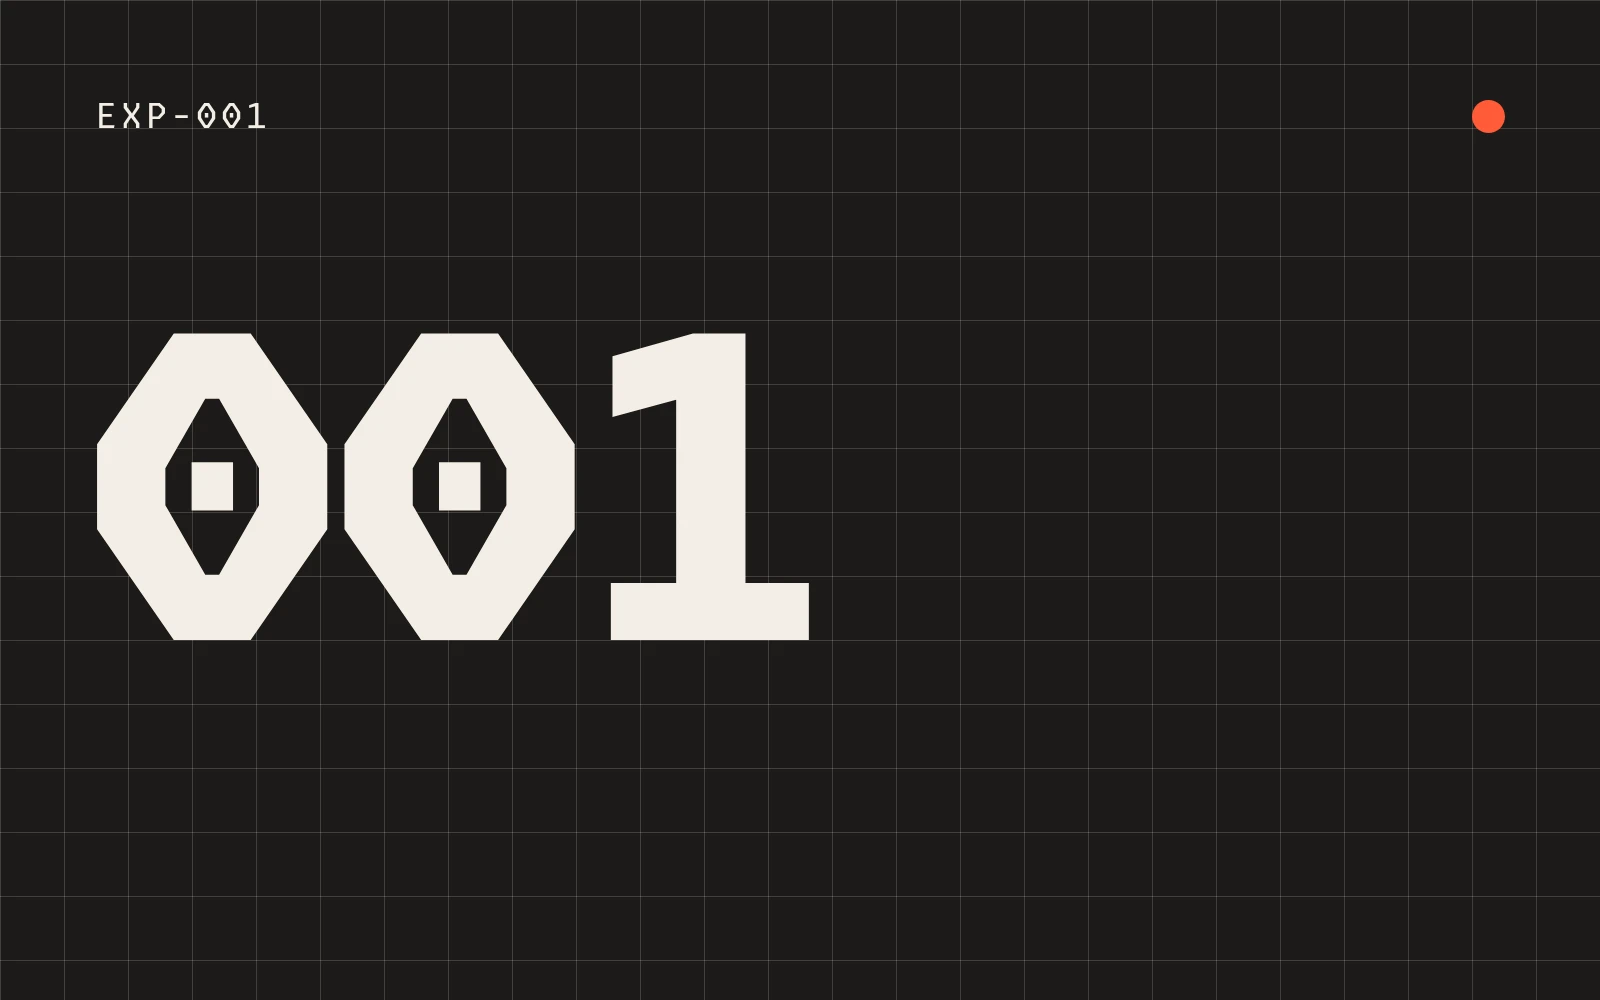
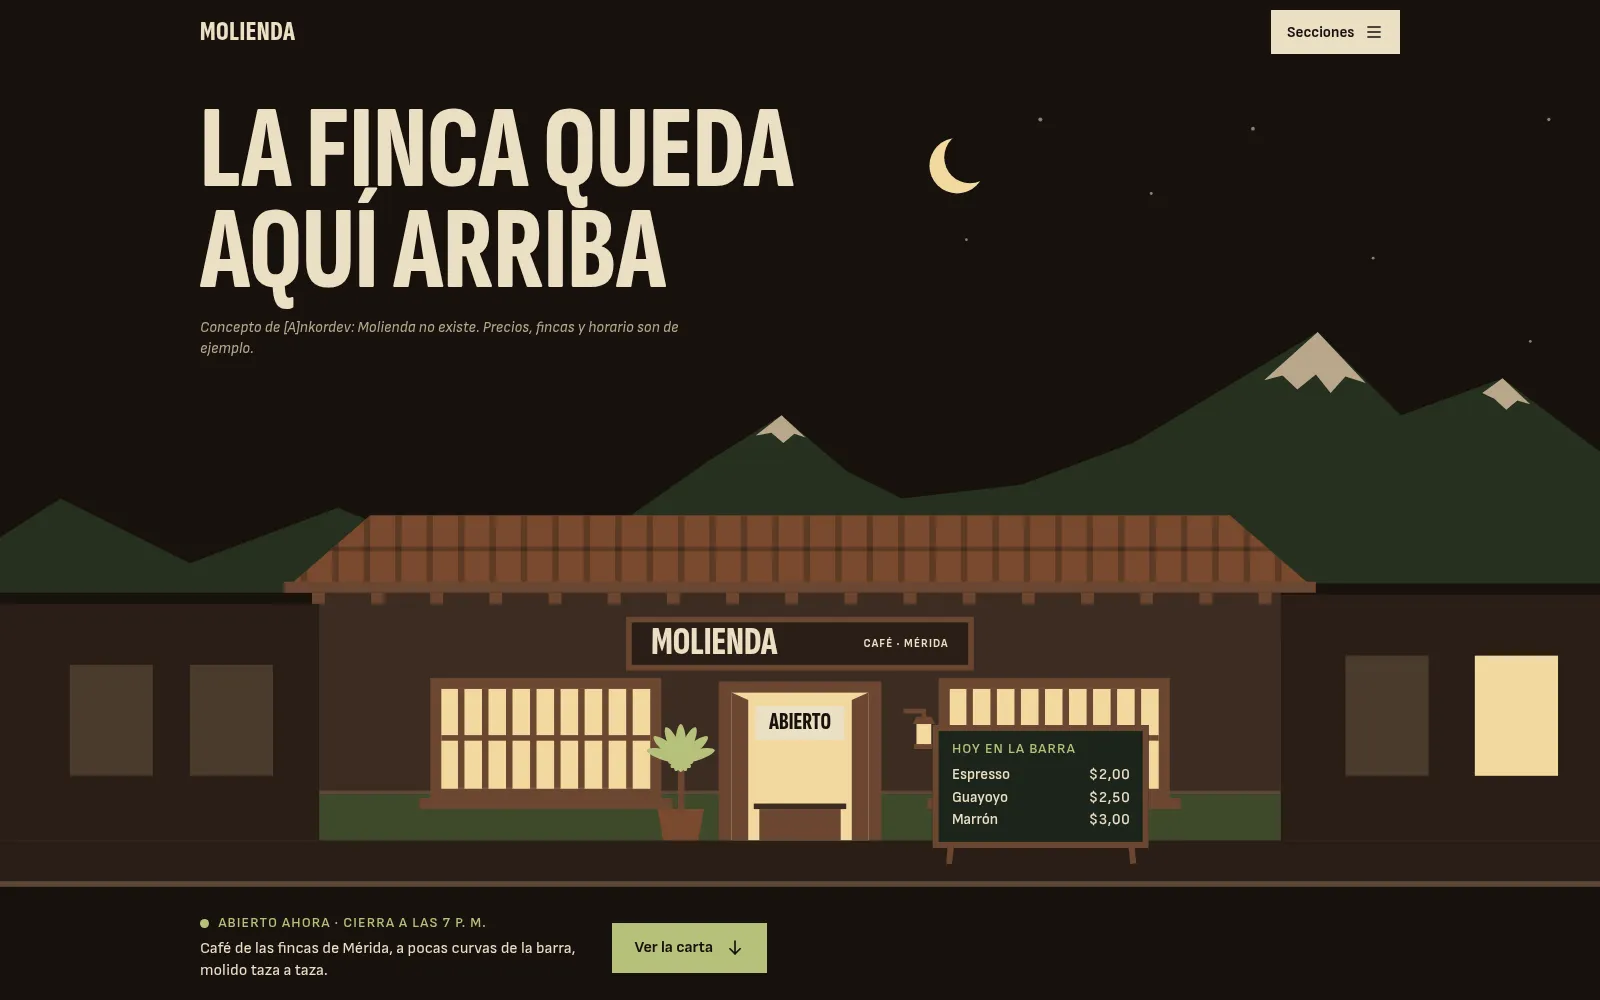
feat: caso de estudio de Molienda publicado (T30, 001)
Capturas reales de https://molienda-cafe.ankordev.workers.dev, enlaces al sitio
y al repositorio, ES y EN.

diff --git a/tests/e2e/projects.spec.ts b/tests/e2e/projects.spec.ts
@@ -3,7 +3,7 @@ import { test, expect } from '@playwright/test';
 test('el inicio lista los proyectos publicables en orden, sin el borrador', async ({ page }) => {
   await page.goto('/');
   const titles = page.locator('#proyectos .project-title');
-  await expect(titles).toHaveText(['Restaurante / café local', 'Don Pascal: tienda online', 'App de reservas para barbería']);
+  await expect(titles).toHaveText(['Molienda: café de especialidad', 'Don Pascal: tienda online', 'App de reservas para barbería']);
   await expect(page.locator('#proyectos')).not.toContainText('iglesia');
 });
 
@@ -31,6 +31,14 @@ test('cada fila abre su caso de estudio y se puede volver', async ({ page }) => 
 
   await page.getByRole('link', { name: 'Volver a proyectos' }).click();
   await expect(page).toHaveURL(/\/#proyectos$/);
+});
+
+test('el caso 001 (Molienda) está publicado con capturas y enlaces reales (T30)', async ({ page }) => {
+  await page.goto('/proyectos/001-restaurante/');
+  await expect(page.locator('h1')).toHaveText('Molienda: café de especialidad');
+  await expect(page.locator('main img').first()).toHaveAttribute('alt', /^Inicio de Molienda/);
+  await expect(page.locator('main a[href="https://molienda-cafe.ankordev.workers.dev"]')).toBeVisible();
+  await expect(page.locator('main a[href="https://github.com/RomPirsZ/molienda-cafe"]')).toBeVisible();
 });
 
 test('el caso de estudio enlaza con su versión en el otro idioma', async ({ page }) => {

diff --git a/tests/e2e/keyboard.spec.ts b/tests/e2e/keyboard.spec.ts
@@ -64,7 +64,7 @@ test('con Enter se abre un caso de estudio, el foco vuelve arriba y se regresa a
   await tabTo(page, '.project-link');
   await page.keyboard.press('Enter');
   await expect(page).toHaveURL(/\/proyectos\/001-restaurante\/$/);
-  await expect(page.locator('h1')).toHaveText('Restaurante / café local');
+  await expect(page.locator('h1')).toHaveText('Molienda: café de especialidad');
 
   // En la página nueva, el primer Tab lleva a «Saltar al contenido», como en una carga normal
   await page.keyboard.press('Tab');

diff --git a/src/content/projects/en/001-restaurante.md b/src/content/projects/en/001-restaurante.md
@@ -1,30 +1,64 @@
 ---
-title: Local restaurant / café
+title: 'Molienda: specialty coffee shop'
 number: '001'
 type: negocio
 year: 2026
-status: por-construir
+status: publicado
 origin: propio
-stack: []
+stack: [Astro, TypeScript, Tailwind CSS, GSAP, Lenis, Cloudflare Workers, Vitest, Playwright]
 cover: ../../../assets/projects/001-restaurante/cover.webp
-coverAlt: Placeholder cover for experiment 001, pending real screenshots
-gallery: []
-summary: Self-initiated project for a local food business. Built and documented in Phase 5.
+coverAlt: Molienda's home page at night, with the headline «La finca queda aquí arriba», the illustrated house with its windows lit, the «Abierto» plaque on the door and a chalkboard with three coffees and their prices
+gallery:
+  - src: ../../../assets/projects/001-restaurante/cerrado.webp
+    alt: The same façade with the café closed, the windows dark and the door plaque reading «Cerrado, mañana, 7 a. m.»
+  - src: ../../../assets/projects/001-restaurante/panel.webp
+    alt: The sections panel open on the right, with five colour blocks from light to dark, from Carta to Visítanos
+  - src: ../../../assets/projects/001-restaurante/carta.webp
+    alt: The menu in three columns, coffee, bakery and brunch, with a photo, the price in dollars and the farm each coffee comes from
+  - src: ../../../assets/projects/001-restaurante/para-llevar.webp
+    alt: The takeaway section with the product list and its quantity buttons, and the ticket with four products and a 12-dollar total
+liveUrl: https://molienda-cafe.ankordev.workers.dev
+repoUrl: https://github.com/RomPirsZ/molienda-cafe
+summary: The website of a fictional specialty coffee shop in Mérida, Venezuela. The illustrated façade shows live whether it is open, the menu carries prices and origins, and the takeaway order is built on screen. A self-initiated concept.
 lang: en
 ---
 
 ## Problem
 
-Pending: documented once the project is built (T27).
+Many neighbourhood cafés post their menu as a photo on social media. It is hard to read on a phone, it doesn't say whether the place is open, and to find out a price you have to send a message and wait.
+
+I wanted to answer what someone about to go needs: what they serve, what it costs, whether it is open now and where it is. And I wanted those answers to take seconds on a phone, on a limited data plan.
 
 ## Solution
 
-Pending.
+Molienda is a fictional café in Mérida that works with beans from Andean farms. Prices, farms and opening hours are samples, and the notice says so up front. The page has four pieces:
+
+**The façade tells the truth.** The first screen is the house at night, drawn for this café. Using Mérida's local time, the windows light up or go dark, and the door plaque says «Abierto» or, when closed, when it opens. In front stands a sidewalk chalkboard with three coffees and their prices.
+
+**Sections panel.** A button slides in five colour blocks from the right, light to dark, leading to the menu, the single-origin coffees, the takeaway order, the opening hours and the area.
+
+**The full menu**, with a photo, the price and each coffee's farm, region and altitude.
+
+**Takeaway.** You pick products and build a ticket on screen to show at the counter. It is a demo: nothing is sent and no data is stored.
+
+Without JavaScript everything still reads: the menu, the full opening hours and the footer navigation.
 
 ## Technical decisions
 
-Pending.
+**Static Astro on Cloudflare Workers.** There is no server and there are no secrets. The CSP only allows the site itself, and a test checks the hash of the one inline script.
 
-## Outcome
+**The illustration is code.** It is a hand-built SVG, inlined so it doesn't delay the first paint, coloured with the design system's tokens. The lights change colour with the opening state, and the plaque and the chalkboard are HTML text: they can be read, translated and they scale with the drawing.
 
-Pending.
+**The panel follows your thumb.** It is a `<dialog>` with scroll snapping: the browser handles the gesture and the backdrop darkens with the scroll position. It closes with Esc, with its button or by tapping outside, and focus returns to the button.
+
+**The ticket adds up.** Pure functions with tests written first: sums in cents, a per-product limit, and a total announced to screen readers. On phones, a sticky bar shows the total while you choose.
+
+**Motion that doesn't block.** The windows light up on load and the menu and photos come in as you scroll. Each animation is set up in its own task so loading isn't held back. With reduced motion, nothing moves.
+
+## Result
+
+Live on Cloudflare Workers, deployed on every change, with CI running tests, Lighthouse and a dependency audit.
+
+Mobile Lighthouse, median of 5 runs: 98 for performance and 100 for accessibility, best practices and SEO.
+
+92 unit tests and 80 end-to-end tests on mobile and desktop, with axe.

diff --git a/src/content/projects/es/001-restaurante.md b/src/content/projects/es/001-restaurante.md
@@ -1,30 +1,64 @@
 ---
-title: Restaurante / café local
+title: 'Molienda: café de especialidad'
 number: '001'
 type: negocio
 year: 2026
-status: por-construir
+status: publicado
 origin: propio
-stack: []
+stack: [Astro, TypeScript, Tailwind CSS, GSAP, Lenis, Cloudflare Workers, Vitest, Playwright]
 cover: ../../../assets/projects/001-restaurante/cover.webp
-coverAlt: Portada provisional del experimento 001, pendiente de capturas reales
-gallery: []
-summary: Proyecto propio para un negocio local de comida. Se construye y documenta en la Fase 5.
+coverAlt: Inicio de Molienda de noche, con el titular «La finca queda aquí arriba», la casona ilustrada con las ventanas encendidas, la placa «Abierto» en el portón y una pizarra con tres cafés y su precio
+gallery:
+  - src: ../../../assets/projects/001-restaurante/cerrado.webp
+    alt: La misma fachada con el café cerrado, las ventanas apagadas y la placa del portón que dice «Cerrado, mañana, 7 a. m.»
+  - src: ../../../assets/projects/001-restaurante/panel.webp
+    alt: Panel de secciones abierto a la derecha, con cinco bloques de color de claro a oscuro, de Carta a Visítanos
+  - src: ../../../assets/projects/001-restaurante/carta.webp
+    alt: Carta en tres columnas, café, panadería y brunch, con foto, precio en dólares y la finca de origen de cada café
+  - src: ../../../assets/projects/001-restaurante/para-llevar.webp
+    alt: Sección Para llevar con la lista de productos y sus botones de cantidad, y el ticket con cuatro productos y un total de 12 dólares
+liveUrl: https://molienda-cafe.ankordev.workers.dev
+repoUrl: https://github.com/RomPirsZ/molienda-cafe
+summary: La web de un café de especialidad ficticio en Mérida. La fachada ilustrada dice en vivo si está abierto, la carta lleva precios y procedencia, y el pedido para llevar se arma en pantalla. Concepto propio.
 lang: es
 ---
 
 ## Problema
 
-Pendiente: se documenta al construir el proyecto (T27).
+Muchos cafés de barrio publican la carta como una foto en redes. En el móvil no se lee bien, no dice si el local está abierto y para saber un precio hay que escribir y esperar.
+
+Quería resolver lo que busca quien va a ir: qué sirven, cuánto cuesta, si está abierto ahora y dónde queda. Y quería que se resolviera en segundos desde el teléfono, con datos móviles limitados.
 
 ## Solución
 
-Pendiente.
+Molienda es un café ficticio de Mérida que trabaja con grano de fincas andinas. Los precios, las fincas y el horario son de ejemplo, y el aviso está a la vista. La página tiene cuatro piezas:
+
+**La fachada dice la verdad.** El primer viewport es la casona de noche, dibujada para este café. Con la hora de Mérida, las ventanas se encienden o se apagan, y la placa del portón dice «Abierto» o, si está cerrado, cuándo abre. Delante, una pizarra de acera con tres cafés y su precio.
+
+**Panel de secciones.** Un botón despliega desde la derecha cinco bloques de color, de claro a oscuro, que llevan a la carta, los cafés de origen, el pedido para llevar, el horario y la zona.
+
+**Carta completa**, con foto, precio y la finca, región y altitud de cada café.
+
+**Para llevar.** Se eligen productos y se arma un ticket en pantalla para enseñarlo en la barra. Es una demostración: no se envía nada ni se guardan datos.
+
+Sin JavaScript se lee todo: la carta, el horario completo y la navegación del pie.
 
 ## Decisiones técnicas
 
-Pendiente.
+**Astro estático en Cloudflare Workers.** No hay servidor ni secretos. La CSP solo admite el propio sitio, y un test comprueba el hash del único script en línea.
+
+**La ilustración es código.** Es un SVG propio, en línea para no retrasar la primera pintura, pintado con los colores del sistema. Las luces cambian de color según el estado de apertura, y la placa y la pizarra son texto HTML: se leen, se traducen y escalan con el dibujo.
+
+**El panel se arrastra con el dedo.** Es un `<dialog>` con scroll-snap: el gesto lo resuelve el navegador y el fondo se oscurece ligado al desplazamiento. Se cierra con Esc, con el botón o tocando fuera, y el foco vuelve al botón.
+
+**El ticket no se equivoca.** Funciones puras con tests escritos antes: suma en céntimos, tope por producto, y un total que se anuncia a los lectores de pantalla. En el móvil, una barra fija muestra el total mientras se elige.
+
+**Movimiento que no bloquea.** Las ventanas se encienden al cargar y la carta y las fotos entran al bajar. Cada animación se prepara en su propia tarea para no frenar la carga. Con movimiento reducido no se mueve nada.
 
 ## Resultado
 
-Pendiente.
+En línea en Cloudflare Workers, con un despliegue en cada cambio y la CI con tests, Lighthouse y auditoría de dependencias.
+
+Lighthouse móvil, mediana de 5 pasadas: 98 de rendimiento y 100 en accesibilidad, buenas prácticas y SEO.
+
+92 tests unitarios y 80 de extremo a extremo en móvil y escritorio, con axe.

diff --git a/docs/specs/001-portafolio/tasks.md b/docs/specs/001-portafolio/tasks.md
@@ -78,10 +78,10 @@ Auditoría `quick` de solo código fuente sobre el diff de T26b–T26f (`02603a4
 
 ## Fase 5 — Proyectos (objetivo: 14–18 nov)
 
-- [x] T27 Proyecto 001 restaurante — *repo propio en `../restaurante/` (café ficticio «Molienda», Mérida), con su spec, plan y tareas en `docs/specs/001-sitio/`; M00–M10 hechas (revisión final de impeccable aprobada, `DESIGN.md`, Lighthouse móvil 99–100/100/100/100); sin despliegue hasta nuevo aviso; el caso de estudio va en T30*
+- [x] T27 Proyecto 001 restaurante — *repo propio en `../restaurante/` (café ficticio «Molienda», Mérida), con su spec, plan y tareas en `docs/specs/001-sitio/`; M00–M10 hechas (revisión final de impeccable aprobada, `DESIGN.md`, Lighthouse móvil 99–100/100/100/100). 2026-11-17: rediseño oscuro y despliegue (M11–M17, spec §10 del restaurante); el caso de estudio va en T30*
 - [x] T28 Proyecto 002 tienda — *repo propio en `../tienda/` (marca ficticia «Don Pascal», Guanare, decidido 2026-11-14), con su spec, plan y tareas en `docs/specs/001-tienda/`: catálogo, carrito con pedido por WhatsApp y asistente con IA (Claude Opus 5.5) que solo responde con datos de la base de datos. Hecha 2026-11-15: en línea en https://don-pascal.ankordev.workers.dev (repo público RomPirsZ/don-pascal-tienda, Workers Builds), E00–E11 y E14–E17 hechas; Lighthouse móvil 100/96/99 y 100 en lo demás. Abiertas en la tienda: E12 (batería contra la API real, falta crédito; mientras, el chat remite a WhatsApp) y E13 (WhatsApp, aplazada por decisión del usuario). Caso de estudio en el portafolio (ES y EN, `src/content/projects/*/002-tienda.md`): publicado, con portada y 4 capturas reales de producción, stack, enlaces al sitio y al código, y lo pendiente dicho tal cual; sin conversación inventada en la captura del chat. Las listas del texto van como párrafos con entrada en negrita (el estilo del caso no da formato a listas). `projects.spec.ts` actualizado*
 - [ ] T29 Proyecto 003 reservas, versión mínima (`docs/specs/004-reservas/`)
-- [ ] T30 Casos de estudio con capturas y enlaces reales — *el de la tienda (002) ya está hecho con T28 (2026-11-15); faltan 001 y 003*
+- [ ] T30 Casos de estudio con capturas y enlaces reales — *el de la tienda (002) ya está hecho con T28 (2026-11-15); el del restaurante (001), «Molienda», el 2026-11-17 tras su rediseño oscuro, en línea en https://molienda-cafe.ankordev.workers.dev (repo público RomPirsZ/molienda-cafe); falta 003 (con T29)*
 
 ## Fase 6 — Pulido (hecha 2026-11-14)
 
